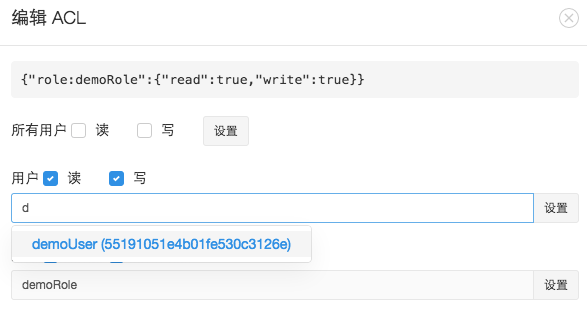
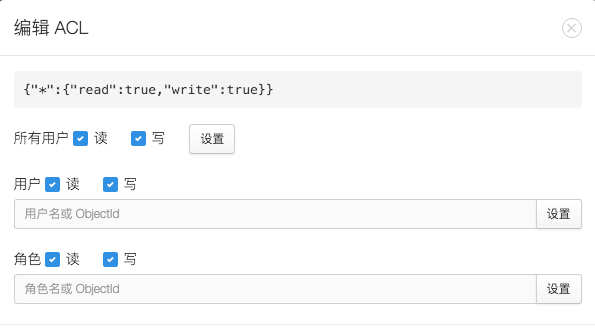
add more desc for acl

diff --git a/md/data_security.md b/md/data_security.md
@@ -42,29 +42,41 @@ LeanCloud 允许你对两种目标设置 ACL：
 * Delete - 删除任意既有对象。
 * Add fields - 给 Class 增加新的属性列
 
+对于每一种权限，又可以开放给不同用户：
+
+* 所有用户 － 指所有客户端都可以进行这一操作，相当于 public 权限
+* 登录用户 － 只有使用 LeanCloud 内建账户系统（AVUser）并且进行了登录的客户端，才可以执行这一操作。
+* 指定用户 － 只有指定用户或者角色才可以执行这一操作，这是对操作权限进行最精确控制的方式。
+
+譬如我们有一个匿名发帖的应用，所有人都可以发表帖子，但是只有经过管理员审核后的帖子才能被展示出来。我们可以有两张表，第一张表用来存放审核前的帖子，这张表的 create 权限就可以开放给所有用户；第二张表用来存放审核后的帖子，这张表的 create 权限就只开放给管理员。
+
 ##### 对客户端隐藏部分列
 
-特别地，某一列的数据还可以设置为 「客户端不可见」。设置了之后，当客户端发起查询的时候，返回的结果将不包含相关字段。比如，匿名发帖的应用，你仍然希望发帖的时候，也记录下真实的作者，但不希望将此信息返回给客户端，所以，这时候就可以设置作者字段为「客户端不可见」（在添加这一列的时候进行设置）。
+对于 Class 来说，还有一种特殊需求，就是我们希望某些列的数据不在客户端展示出来。比如，匿名发帖的应用，你仍然希望发帖的时候，也记录下真实的作者，但不希望将此信息返回给客户端；账户系统中可能存有用户身份证号码，我们也希望通过 SDK 进行查询的时候，永远不要返回出去。这时候就需要能够对于普通查询永远隐藏部分列。
+
+LeanCloud 也允许将部分列的数据设置为 「客户端不可见」。设置了之后，当客户端发起查询的时候，返回的结果将不包含相关字段。当然，在 LeanCloud 控制台，或者使用 masterKey 来做查询的话，是可以看到完整的数据的。
 
 #### Object 级别的 ACL
+在 LeanCloud 中，还可以对 Class 中的每一条记录（Object）单独设置 ACL，这时是按照读、写分离来对不同用户、角色进行授权的。在应用控制台中进行操作的界面如下图所示：
+
 ![image](images/acl.png)
 
-在 LeanCloud 中，还可以对 Class 中的每一条记录（Object）单独设置 ACL。例如：
+这样我们就可以做到：
 
-* 对于私有数据，read 和 write 都可以限制为对象拥有者（owner）所有。
-* 一个信息公告板的帖子，作者和属于「版主」角色的成员可拥有 write 权限，通常 public 允许 read 访问（也就是允许公开读取帖子）。
-* 高优先级用户或者开发者创建的数据，例如全局的每日广播消息，可以让 public 拥有 read 许可，但是严格限制 write 权限给「管理员」角色。
-* 一条从一个用户发往另一个用户的消息，可以将读和写的访问许可限制到关联的这两个用户。
+* 对于私有数据，read 和 write 都可以限制为对象创建者所有（其读写权限都设置成创建者自身，并且不开放「所有用户」的读、写权限）。
+* 一个信息公告板的帖子，作者和属于「版主」角色的成员可拥有修改权限，普通访客则只允许 浏览（给「所有用户」开放「读」权限，给「作者」和「版主角色」开放「写」权限）。
+* 应用内全局的每日广播消息，对所有用户是只读的，只有管理员可以修改它（给「所有用户」开放「读」权限，给「管理员角色」开放「写」权限）。
+* 一条从一个用户发往另一个用户的消息，可以将读和写的访问许可限制到关联的这两个用户，其他人一概不可读写（对「所有用户」关闭「读、写」权限，只对两个用户开放权限）。
 
-使用 LeanCloud SDK，你可以设置一个默认的 ACL 给客户端所有创建的对象。如果你同时开启允许匿名用户的功能，你可以保证你的数据拥有严格限制到每个单独用户的 ACL 权限。基于用户和角色的权限管理指南，请参考如下文档：
+使用 LeanCloud SDK，你可以设置一个默认的 ACL 给客户端所有创建的对象。如果你同时开启允许匿名用户的功能，你可以保证你的数据拥有严格限制到每个单独用户的 ACL 权限。基于用户和角色的权限管理指南，详细信息请参考如下文档：
 - [JavaScript 权限管理指南](./acl_guide-js.html)
 - [Objective-C 权限管理指南](./acl_guide-ios.html)
 - [Android 权限管理指南](./acl_guide-android.html)
 
 ### Web 应用安全设置
-在通用的两层鉴权机制之外，我们单独讨论一下 Web 应用的安全设置。
+在通用的两层鉴权机制之外，我们单独讨论一下 Web 应用的安全问题。
 
-如果在前端使用 JavaScript SDK，当你打算正式发布出去的时候，请务必配置 **Web 安全域名**，方法是进入 [控制台 > 设置 > 安全中心 > **Web 安全域名**](/app.html?appid={{appid}}#/security)。
+对于 Web 应用来说，盗取 appId／appKey 的难度会更小一些，所以我们需要做一些特别的防御措施。关键点是，我们要能够保证其他人把你的 appId 偷过去之后，他也无法直接使用你的服务器资源。Web 端可以通过 `Web 安全域名` 来对请求来源做限制，可以简单的防御住 Web 的服务器资源盗取。
 
 设置「Web 安全域名」后，仅可在该域名下通过 JavaScript SDK 调用服务器资源，域名配置策略与浏览器域安全策略一致，要求域名协议、域和端口号都需严格一致，不支持子域和通配符。所以如果你要配置一个域名，要写清楚协议、域和端口，缺少一个都可能导致访问被禁止。举例说明一下域名的区别：
 
@@ -94,12 +106,12 @@ https:
 
 在 WebView 中使用，建议通过 WebView 去加载一个部署好的、有域名的 Web，然后缓存在本地，这样可以通过 **Web 安全域名** 来做限制。
 
+如果在前端使用 JavaScript SDK，当你打算正式发布出去的时候，请务必配置 **Web 安全域名**，方法是进入 [控制台 > 设置 > 安全中心 > **Web 安全域名**](/app.html?appid={{appid}}#/security)。
 ![image](images/security/web-host.png)
-
 
 ## 安全中心
 
-安全中心，是我们为每个应用提供的设置基本安全的入口，位置在 [控制台 / 设置 / 安全中心](/app.html?appid={{appid}}#/security)。
+安全中心，是我们为每个应用提供的设置基本安全的入口，位置在 [控制台 / 设置 / 安全中心](/app.html?appid={{appid}}#/security)。除了之前讲过的**Web 安全域名**外，这里还可以设置或查看：
 
 ### 服务开关
 
